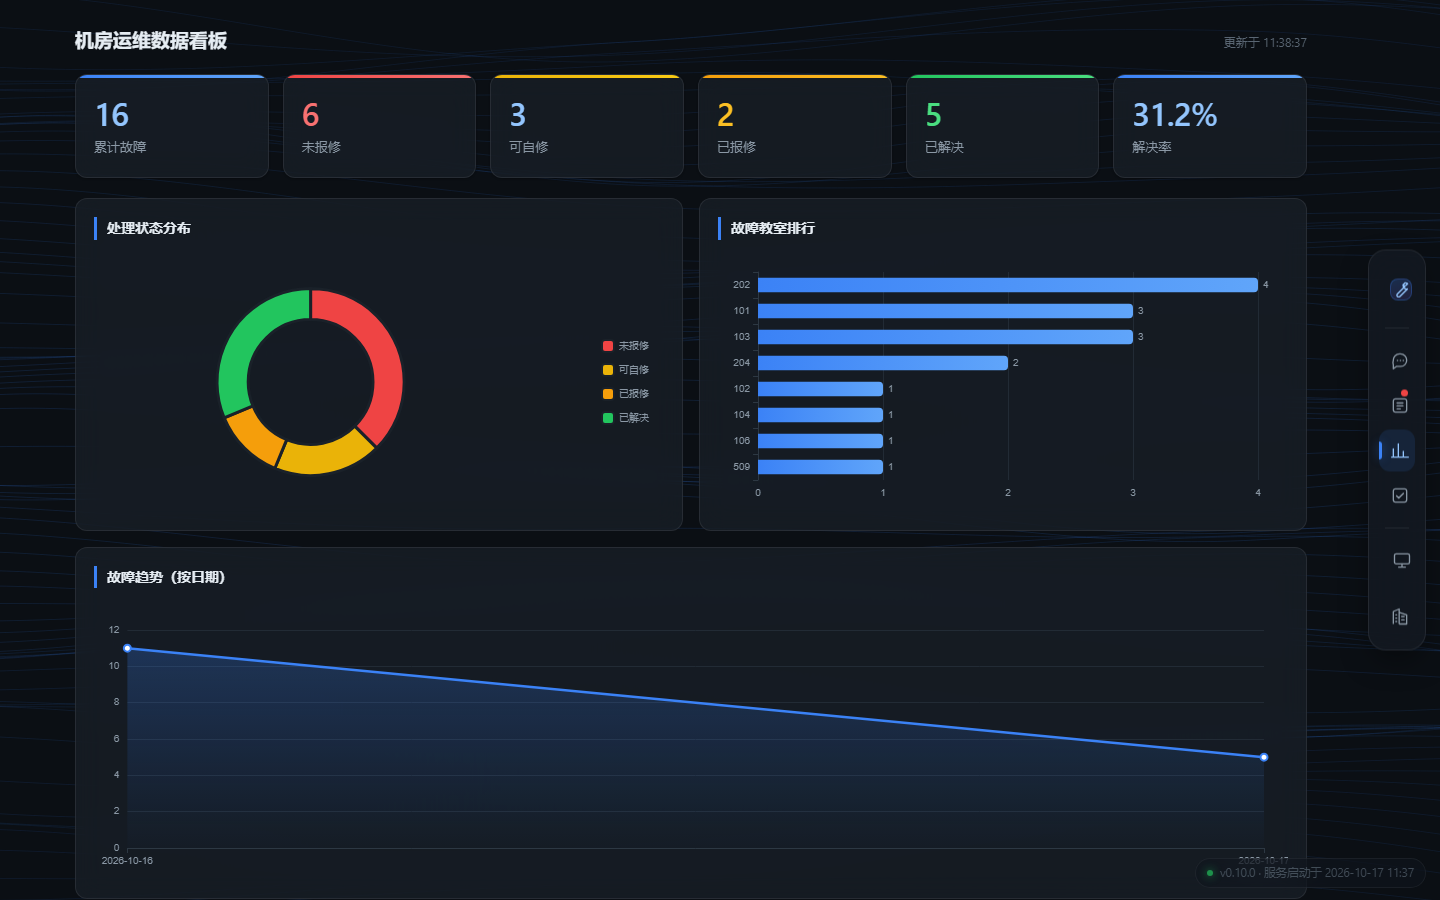
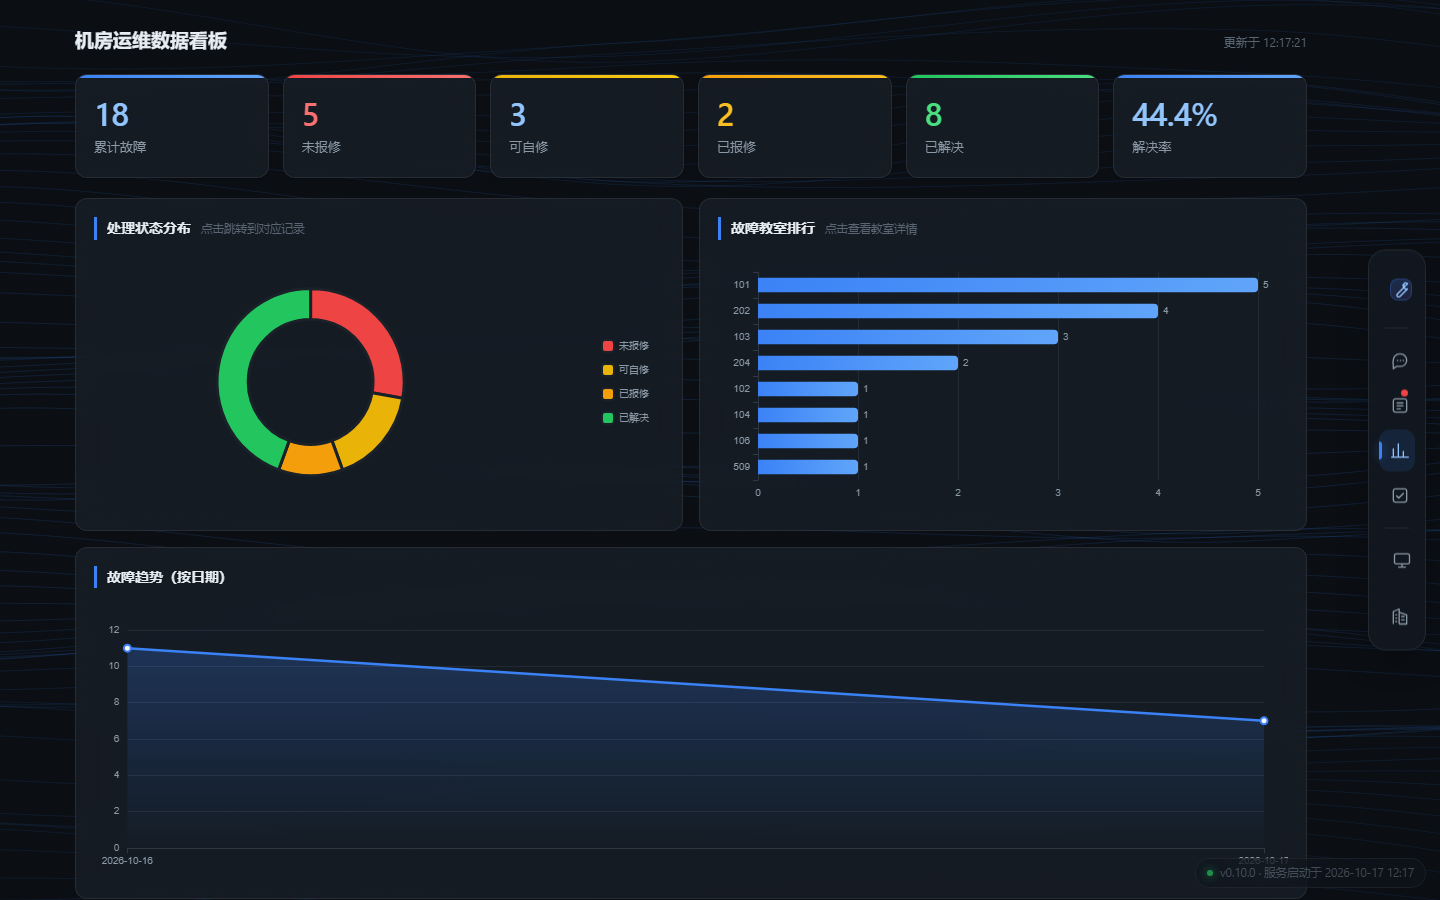
feat: 数据看板图表可点击跳转；恢复日志的「待处理 / 待办」分区
一、图表可点击（来自 2026-10-17 使用反馈）

  看到「未报修 3 条」或「某间教室故障最多」之后，下一步一定是去看明细，
  但原来还得自己切到报修台账、再点一次筛选。

  · 点「处理状态分布」饼图的某一段 → 跳到报修台账并筛好该状态
  · 点「故障教室排行」柱状图的某根柱子 → 直接打开那间教室的详情

  实现细节：
    · 先 off('click') 再 on：loadStats 会被重复调用（切回看板、刷新数据），
      而 ECharts 的 on 是累加的 —— 不解绑的话点一次会跳好几次
    · 图表里只有教室号（如 101），打开详情需要「教学楼 + 教室」，
      所以先查教室台账把教学楼补出来；查不到就退化成打开管理弹窗，
      至少不会点了没反应
    · 图表标题加一行小字提示可点，鼠标变手型

二、恢复日志分区

  上一轮把日志从「待处理 / 待办」结构覆盖回了旧格式。
  现在恢复分区，并把内容归位：

    · 待处理：暂无（图表这条需求本轮已实现）
    · 待办：报修台账的分类 / 筛选 / 查找；导入课表；
           按故障历史做 AI 总结与改进建议
    · 2026-10-17：四条问题与对应改动，附问题现场截图

三、其它

  · 重新生成 7 张 README 截图（看板能看到新的图表提示）
  · 191 个测试通过

diff --git a/web/static/app.js b/web/static/app.js
@@ -1212,6 +1212,16 @@ async function loadStats() {
       }],
     });
 
+    // 点击饼图某一段 → 跳到报修台账，并筛成该状态
+    //
+    // 先 off 再 on：loadStats 会被重复调用（切回看板、刷新数据），
+    // 而 ECharts 的 on 是累加的 —— 不先解绑的话，
+    // 点一次会跳好几次，行为看着像"卡了"。
+    chartStatus.off('click');
+    chartStatus.on('click', (p) => {
+      gotoRecordsWithStatus(p.name);
+    });
+
     // ---- 图表 2：教室排行（横向柱状图） ----
     const rooms = d.top_classrooms.map(x => x[0]).reverse();
     const counts = d.top_classrooms.map(x => x[1]).reverse();
@@ -1244,6 +1254,13 @@ async function loadStats() {
         },
         label: { show: true, position: 'right', color: '#8b98a5' },
       }],
+    });
+
+    // 点击柱子（某间教室）→ 打开该教室详情
+    // 同样先解绑，原因见上面饼图那段
+    chartClassroom.off('click');
+    chartClassroom.on('click', (p) => {
+      gotoRoomDetail(p.name);
     });
 
     // ---- 图表 3：故障趋势（折线图） ----
@@ -1305,7 +1322,58 @@ function openAdmin() {
   showListView();
   loadClassrooms();
 }
-function closeAdmin() {
+
+/* ============================================================
+   从数据看板跳到明细
+
+   看板上看到"某状态有 N 条"或"某间教室故障最多"之后，
+   下一步一定是要看具体是哪些记录/哪间教室。
+   让图表可以直接点，省掉"切页 → 再筛选"这两步。
+   ============================================================ */
+
+/**
+ * 跳到报修台账，并筛成指定状态
+ * 数据看板的「状态分布」饼图点击时调用
+ */
+function gotoRecordsWithStatus(status) {
+  if (!status) return;
+
+  // 先设好筛选条件再切页 —— switchView 内部会调 loadRecords()，
+  // 它按 currentStatus 拼接口参数
+  currentStatus = status;
+  switchView('records');
+
+  // 同步顶部筛选按钮的高亮（loadRecords 不负责这个）
+  document.querySelectorAll('.chip[data-status]').forEach(ch => {
+    ch.classList.toggle('active', ch.dataset.status === status);
+  });
+}
+
+/**
+ * 打开某间教室的详情
+ * 数据看板的「故障教室排行」柱状图点击时调用
+ *
+ * 图表里只有教室号（如 101），而打开详情需要「教学楼 + 教室」。
+ * 所以先查一遍教室台账把教学楼补出来；查不到就退化成打开管理弹窗，
+ * 让用户自己在列表里找，至少不会点了没反应。
+ */
+async function gotoRoomDetail(roomName) {
+  if (!roomName) return;
+
+  let hit = null;
+  try {
+    const res = await fetch('/api/classrooms');
+    const d = await res.json();
+    hit = (d.flat || []).find(x => x.name === roomName);
+  } catch { /* 取不到就退化处理 */ }
+
+  openAdmin();
+
+  if (!hit) return;   // 已经打开了管理弹窗，用户可自行从列表进入
+
+  // 等弹窗渲染一帧再切到详情视图，避免和 loadClassrooms 抢 DOM
+  setTimeout(() => openRoomDetail(hit.building, hit.name), 60);
+}function closeAdmin() {
   adminModal.classList.add('hidden');
   if (roomChart) { roomChart.dispose(); roomChart = null; }
 }

diff --git a/web/templates/index.html b/web/templates/index.html
@@ -382,12 +382,12 @@
 
         <div class="chart-row">
           <div class="chart-card">
-            <h3>处理状态分布</h3>
-            <div id="chart-status" class="chart"></div>
+            <h3>处理状态分布 <span class="chart-hint">点击跳转到对应记录</span></h3>
+            <div id="chart-status" class="chart chart-clickable"></div>
           </div>
           <div class="chart-card">
-            <h3>故障教室排行</h3>
-            <div id="chart-classroom" class="chart"></div>
+            <h3>故障教室排行 <span class="chart-hint">点击查看教室详情</span></h3>
+            <div id="chart-classroom" class="chart chart-clickable"></div>
           </div>
         </div>
 

diff --git a/web/static/style.css b/web/static/style.css
@@ -1361,6 +1361,18 @@ main { flex: 1; overflow: hidden; position: relative; }
 .chart-tall { height: 280px; }
 .chart-wide { grid-column: 1 / -1; }
 
+/* 可点击的图表：鼠标变手型，并给标题加一行小字提示
+   看板上看到"某状态有 N 条"之后，下一步一定是去看具体记录 ——
+   让图表可以直接点，省掉"切页 → 再筛选"两步 */
+.chart-clickable { cursor: pointer; }
+
+.chart-hint {
+  font-size: 11.5px;
+  font-weight: 400;
+  color: var(--text-faint);
+  margin-left: 6px;
+}
+
 
 /* ============================================================
    滚动条

diff --git a/docs/使用与迭代日志.md b/docs/使用与迭代日志.md
@@ -19,8 +19,6 @@
 **新发现的问题写进下面的「待处理」区**，我按那里的内容动手；
 处理完会把它挪到当天的日期条目里，并填上对应的 commit。
 
-每条尽量带上三样东西：**什么时候 · 发现了什么 · 改了什么**
-
 写的时候说清「看到什么现象」+「期望怎样」就够了，
 不用自己分析原因 —— 定位问题我来做。
 
@@ -40,7 +38,11 @@
 
 ## 待办（想加的功能，不着急）
 
-- [ ] 导入课表功能，实时显示上课教室。用于教室发生突发状况，调课到附近教室。
+- [ ] 报修台账加分类、筛选、查找功能，更快锁定问题
+- [ ] 导入课表功能，实时显示上课教室。用于教室发生突发状况，调课到附近教室
+- [ ] 根据教室故障历史做总结，AI 分析并提出改进建议。
+      例如「电脑电源坏的台数明显增加，可能是教室配电不稳」。
+      可单开一页，或加在数据看板里
 
 ---
 
@@ -48,7 +50,7 @@
 
 **使用情况**
 
-- 用真实故障跑了几轮诊断：总闸跳闸、教室没电、教室断网
+- 用真实故障跑了几轮诊断：总闸跳闸、教室没电、教室断网、空调故障
 
 **发现的问题**
 
@@ -67,7 +69,9 @@
 
    截图里 AI 连续两轮让学生推闸，最后还追问"有几台电脑出现这个情况" ——
    整间教室都断电了，问"几台"没有意义。
-   这两处问题分别来自提示词里的两条规则（详见改动）。
+4. **看板图表点不了**
+   看到"某状态有 N 条"或"某教室故障最多"之后，还得自己切到台账再筛一遍。
+   希望饼图和柱状图能直接点进去。
 
 **改动**
 
@@ -81,6 +85,8 @@
   整间断电不再问"几台电脑"（`8fc933d`）
 - `tools`: 新增 `migrate_facility_target.py`，
   把历史记录里 3 条设施故障重新归类（已备份原文件）
+- `feat`: 数据看板图表可点击 ——
+  饼图点某状态 → 跳到台账并筛好；柱状图点某教室 → 直接开详情（`commit 待填`）
 
 ---
 
@@ -88,8 +94,8 @@
 
 | 项目 | 数值 |
 |---|---|
-| 报修记录 | 16 条 |
+| 报修记录 | 19 条 |
 | 覆盖教室 | 实验楼A 10 间 / 实验楼B — 间 |
 | 知识库案例（手工 / 自动沉淀） | 23 / 1 |
 | 自动化测试 | 191 |
-| 提交数 | 66 |
+| 提交数 | 67 |
